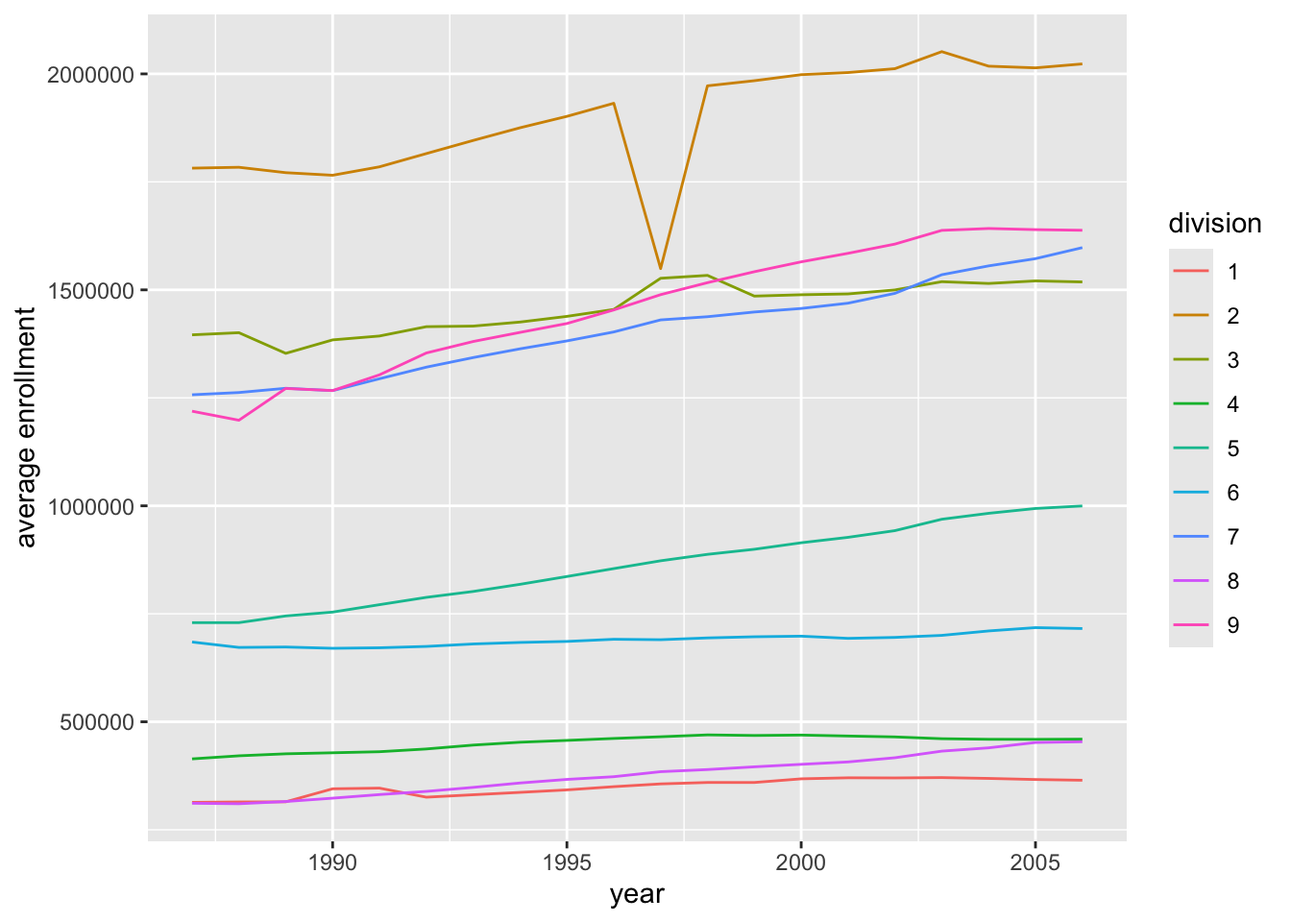
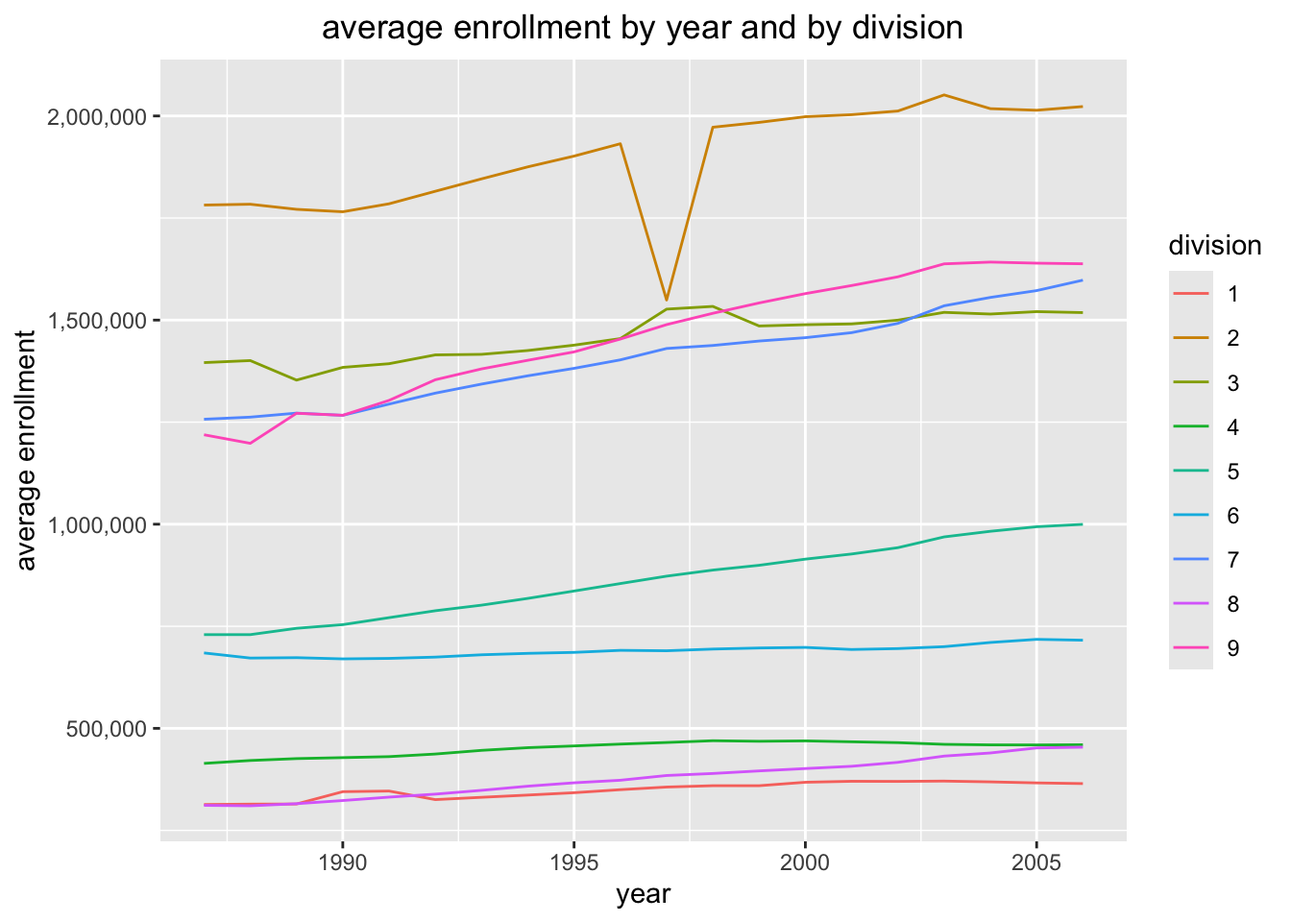
Fixes and formatting for the plots

diff --git a/docs/Project1.html b/docs/Project1.html
@@ -261,7 +261,7 @@ pre > code.sourceCode > span > a:first-child::before { text-decoration: underlin
 <span id="cb6-42"><a href="#cb6-42" aria-hidden="true" tabindex="-1"></a>  <span class="fu">return</span>(<span class="fu">list</span>(countydata, statedata))</span>
 <span id="cb6-43"><a href="#cb6-43" aria-hidden="true" tabindex="-1"></a>}</span></code><button title="Copy to Clipboard" class="code-copy-button"><i class="bi"></i></button></pre></div>
 </div>
-<p>We then create a wrapper function to automate the process, so we can now simply add a CSV file name/path, and optionally a specific value we would like if enrollment is no longer the measure of interest, to the function my_wrapper().</p>
+<p>We then create a wrapper function to automate the process, so we can now simply add a CSV file name/path, and optionally a specific value we would like if enrollment is no longer the measure of interest, to the function my_wrapper(). Checking this output data to the data above, we can see our wrapper has reproduced the same data processing steps.</p>
 <div class="cell">
 <div class="sourceCode cell-code" id="cb7"><pre class="sourceCode r code-with-copy"><code class="sourceCode r"><span id="cb7-1"><a href="#cb7-1" aria-hidden="true" tabindex="-1"></a>my_wrapper <span class="ot">&lt;-</span> <span class="cf">function</span>(url, <span class="at">value =</span> <span class="st">"enrollment"</span>){</span>
 <span id="cb7-2"><a href="#cb7-2" aria-hidden="true" tabindex="-1"></a>  <span class="co"># assume URL is in quotes</span></span>
@@ -273,15 +273,49 @@ pre > code.sourceCode > span > a:first-child::before { text-decoration: underlin
 <span id="cb7-8"><a href="#cb7-8" aria-hidden="true" tabindex="-1"></a>result_tibbles <span class="ot">&lt;-</span> <span class="fu">my_wrapper</span>(<span class="at">url=</span><span class="st">"https://www4.stat.ncsu.edu/~online/datasets/EDU01a.csv"</span>)</span>
 <span id="cb7-9"><a href="#cb7-9" aria-hidden="true" tabindex="-1"></a></span>
 <span id="cb7-10"><a href="#cb7-10" aria-hidden="true" tabindex="-1"></a>countyData_Final <span class="ot">&lt;-</span> result_tibbles[[<span class="dv">1</span>]]</span>
-<span id="cb7-11"><a href="#cb7-11" aria-hidden="true" tabindex="-1"></a>stateData_Final <span class="ot">&lt;-</span> result_tibbles[[<span class="dv">2</span>]]</span></code><button title="Copy to Clipboard" class="code-copy-button"><i class="bi"></i></button></pre></div>
+<span id="cb7-11"><a href="#cb7-11" aria-hidden="true" tabindex="-1"></a>stateData_Final <span class="ot">&lt;-</span> result_tibbles[[<span class="dv">2</span>]]</span>
+<span id="cb7-12"><a href="#cb7-12" aria-hidden="true" tabindex="-1"></a>countyData_Final</span></code><button title="Copy to Clipboard" class="code-copy-button"><i class="bi"></i></button></pre></div>
+<div class="cell-output cell-output-stdout">
+<pre><code># A tibble: 31,450 × 7
+   area_name     STCOU varcode    enrollment  year measure state
+   &lt;chr&gt;         &lt;chr&gt; &lt;chr&gt;           &lt;dbl&gt; &lt;dbl&gt; &lt;chr&gt;   &lt;chr&gt;
+ 1 Abbeville, SC 45001 EDU010187D       3941  1987 EDU0101 SC   
+ 2 Abbeville, SC 45001 EDU010188D       3934  1988 EDU0101 SC   
+ 3 Abbeville, SC 45001 EDU010189D       3880  1989 EDU0101 SC   
+ 4 Abbeville, SC 45001 EDU010190D       3834  1990 EDU0101 SC   
+ 5 Abbeville, SC 45001 EDU010191D       3806  1991 EDU0101 SC   
+ 6 Abbeville, SC 45001 EDU010192D       3780  1992 EDU0101 SC   
+ 7 Abbeville, SC 45001 EDU010193D       3804  1993 EDU0101 SC   
+ 8 Abbeville, SC 45001 EDU010194D       3750  1994 EDU0101 SC   
+ 9 Abbeville, SC 45001 EDU010195D       3780  1995 EDU0101 SC   
+10 Abbeville, SC 45001 EDU010196D       3803  1996 EDU0101 SC   
+# ℹ 31,440 more rows</code></pre>
+</div>
+<div class="sourceCode cell-code" id="cb9"><pre class="sourceCode r code-with-copy"><code class="sourceCode r"><span id="cb9-1"><a href="#cb9-1" aria-hidden="true" tabindex="-1"></a>stateData_Final</span></code><button title="Copy to Clipboard" class="code-copy-button"><i class="bi"></i></button></pre></div>
+<div class="cell-output cell-output-stdout">
+<pre><code># A tibble: 520 × 7
+   area_name STCOU varcode    enrollment  year measure division
+   &lt;chr&gt;     &lt;chr&gt; &lt;chr&gt;           &lt;dbl&gt; &lt;dbl&gt; &lt;chr&gt;   &lt;chr&gt;   
+ 1 ALABAMA   01000 EDU010187D     733735  1987 EDU0101 6       
+ 2 ALABAMA   01000 EDU010188D     728234  1988 EDU0101 6       
+ 3 ALABAMA   01000 EDU010189D     730048  1989 EDU0101 6       
+ 4 ALABAMA   01000 EDU010190D     728252  1990 EDU0101 6       
+ 5 ALABAMA   01000 EDU010191D     725541  1991 EDU0101 6       
+ 6 ALABAMA   01000 EDU010192D     726150  1992 EDU0101 6       
+ 7 ALABAMA   01000 EDU010193D     728014  1993 EDU0101 6       
+ 8 ALABAMA   01000 EDU010194D     730509  1994 EDU0101 6       
+ 9 ALABAMA   01000 EDU010195D     727989  1995 EDU0101 6       
+10 ALABAMA   01000 EDU010196D     736825  1996 EDU0101 6       
+# ℹ 510 more rows</code></pre>
+</div>
 </div>
 <p>We additionally create a function to combine the processing results from multiple CSV files into one larger tibble.</p>
 <div class="cell">
-<div class="sourceCode cell-code" id="cb8"><pre class="sourceCode r code-with-copy"><code class="sourceCode r"><span id="cb8-1"><a href="#cb8-1" aria-hidden="true" tabindex="-1"></a>combine_datasets <span class="ot">&lt;-</span> <span class="cf">function</span>(results1, results2){</span>
-<span id="cb8-2"><a href="#cb8-2" aria-hidden="true" tabindex="-1"></a>  combined_county <span class="ot">&lt;-</span> dplyr<span class="sc">::</span><span class="fu">bind_rows</span>(results1[[<span class="dv">1</span>]],results2[[<span class="dv">1</span>]])</span>
-<span id="cb8-3"><a href="#cb8-3" aria-hidden="true" tabindex="-1"></a>  combined_state <span class="ot">&lt;-</span> dplyr<span class="sc">::</span><span class="fu">bind_rows</span>(results1[[<span class="dv">2</span>]],results2[[<span class="dv">2</span>]])</span>
-<span id="cb8-4"><a href="#cb8-4" aria-hidden="true" tabindex="-1"></a>  <span class="fu">return</span>(<span class="fu">list</span>(<span class="at">countyData =</span> combined_county, <span class="at">stateData =</span> combined_state))</span>
-<span id="cb8-5"><a href="#cb8-5" aria-hidden="true" tabindex="-1"></a>}</span></code><button title="Copy to Clipboard" class="code-copy-button"><i class="bi"></i></button></pre></div>
+<div class="sourceCode cell-code" id="cb11"><pre class="sourceCode r code-with-copy"><code class="sourceCode r"><span id="cb11-1"><a href="#cb11-1" aria-hidden="true" tabindex="-1"></a>combine_datasets <span class="ot">&lt;-</span> <span class="cf">function</span>(results1, results2){</span>
+<span id="cb11-2"><a href="#cb11-2" aria-hidden="true" tabindex="-1"></a>  combined_county <span class="ot">&lt;-</span> dplyr<span class="sc">::</span><span class="fu">bind_rows</span>(results1[[<span class="dv">1</span>]],results2[[<span class="dv">1</span>]])</span>
+<span id="cb11-3"><a href="#cb11-3" aria-hidden="true" tabindex="-1"></a>  combined_state <span class="ot">&lt;-</span> dplyr<span class="sc">::</span><span class="fu">bind_rows</span>(results1[[<span class="dv">2</span>]],results2[[<span class="dv">2</span>]])</span>
+<span id="cb11-4"><a href="#cb11-4" aria-hidden="true" tabindex="-1"></a>  <span class="fu">return</span>(<span class="fu">list</span>(<span class="at">countyData =</span> combined_county, <span class="at">stateData =</span> combined_state))</span>
+<span id="cb11-5"><a href="#cb11-5" aria-hidden="true" tabindex="-1"></a>}</span></code><button title="Copy to Clipboard" class="code-copy-button"><i class="bi"></i></button></pre></div>
 </div>
 </section>
 </section>
@@ -289,40 +323,38 @@ pre > code.sourceCode > span > a:first-child::before { text-decoration: underlin
 <h2 class="anchored" data-anchor-id="data-summarization">Data Summarization</h2>
 <p>We then turn our attention to a method for automatically summarizing the datasets created from our previous functions, specifically plotting the state-level data as a line chart for average enrollment by year, with different lines for each division, and the county-level data as a line chart for simple enrollment by year across counties, specifying a particular state and considering either the top n number of counties or the bottom n number of counties, where ordering is according to average enrollment across the entire time period.</p>
 <div class="cell">
-<div class="sourceCode cell-code" id="cb9"><pre class="sourceCode r code-with-copy"><code class="sourceCode r"><span id="cb9-1"><a href="#cb9-1" aria-hidden="true" tabindex="-1"></a>plot.state <span class="ot">&lt;-</span> <span class="cf">function</span>(df,<span class="at">var_name=</span><span class="st">"enrollment"</span>){</span>
-<span id="cb9-2"><a href="#cb9-2" aria-hidden="true" tabindex="-1"></a>  mean_data <span class="ot">&lt;-</span> df <span class="sc">|&gt;</span></span>
-<span id="cb9-3"><a href="#cb9-3" aria-hidden="true" tabindex="-1"></a>    <span class="fu">filter</span>(division <span class="sc">!=</span> <span class="st">"ERROR"</span>) <span class="sc">|&gt;</span></span>
-<span id="cb9-4"><a href="#cb9-4" aria-hidden="true" tabindex="-1"></a>    <span class="fu">group_by</span>(division,year) <span class="sc">|&gt;</span></span>
-<span id="cb9-5"><a href="#cb9-5" aria-hidden="true" tabindex="-1"></a>    <span class="fu">summarize</span>(<span class="at">var_avg =</span> <span class="fu">mean</span>(<span class="fu">get</span>(var_name)))</span>
-<span id="cb9-6"><a href="#cb9-6" aria-hidden="true" tabindex="-1"></a>  g <span class="ot">&lt;-</span> <span class="fu">ggplot</span>(mean_data,<span class="fu">aes</span>(<span class="at">x=</span>year,<span class="at">y=</span>var_avg,<span class="at">color=</span>division))</span>
-<span id="cb9-7"><a href="#cb9-7" aria-hidden="true" tabindex="-1"></a>  g<span class="sc">+</span><span class="fu">geom_line</span>()<span class="sc">+</span><span class="fu">labs</span>(<span class="at">y=</span><span class="fu">paste</span>(<span class="st">"average"</span>,var_name))</span>
-<span id="cb9-8"><a href="#cb9-8" aria-hidden="true" tabindex="-1"></a>}</span>
-<span id="cb9-9"><a href="#cb9-9" aria-hidden="true" tabindex="-1"></a></span>
-<span id="cb9-10"><a href="#cb9-10" aria-hidden="true" tabindex="-1"></a>plot.county <span class="ot">&lt;-</span> <span class="cf">function</span>(df,<span class="at">state_choice=</span><span class="st">"NC"</span>,<span class="at">top_bottom=</span><span class="st">"top"</span>,<span class="at">n_given=</span><span class="dv">5</span>,<span class="at">var_name=</span><span class="st">"enrollment"</span>){</span>
-<span id="cb9-11"><a href="#cb9-11" aria-hidden="true" tabindex="-1"></a>  mean_data <span class="ot">&lt;-</span> df <span class="sc">|&gt;</span></span>
-<span id="cb9-12"><a href="#cb9-12" aria-hidden="true" tabindex="-1"></a>    <span class="fu">filter</span>(state <span class="sc">==</span> state_choice) <span class="sc">|&gt;</span></span>
-<span id="cb9-13"><a href="#cb9-13" aria-hidden="true" tabindex="-1"></a>    <span class="fu">group_by</span>(area_name) <span class="sc">|&gt;</span></span>
-<span id="cb9-14"><a href="#cb9-14" aria-hidden="true" tabindex="-1"></a>    <span class="fu">summarize</span>(<span class="at">var_avg =</span> <span class="fu">mean</span>(<span class="fu">get</span>(var_name))) </span>
-<span id="cb9-15"><a href="#cb9-15" aria-hidden="true" tabindex="-1"></a>    <span class="fu">ifelse</span>(<span class="fu">tolower</span>(top_bottom)<span class="sc">==</span><span class="st">"top"</span>, mean_data <span class="ot">&lt;-</span> mean_data <span class="sc">|&gt;</span> <span class="fu">arrange</span>(<span class="fu">desc</span>(var_avg)),</span>
-<span id="cb9-16"><a href="#cb9-16" aria-hidden="true" tabindex="-1"></a>           <span class="fu">ifelse</span>(<span class="fu">tolower</span>(top_bottom)<span class="sc">==</span><span class="st">"bottom"</span>,</span>
-<span id="cb9-17"><a href="#cb9-17" aria-hidden="true" tabindex="-1"></a>              mean_data <span class="ot">&lt;-</span> mean_data <span class="sc">|&gt;</span></span>
-<span id="cb9-18"><a href="#cb9-18" aria-hidden="true" tabindex="-1"></a>              <span class="fu">arrange</span>(var_avg),</span>
-<span id="cb9-19"><a href="#cb9-19" aria-hidden="true" tabindex="-1"></a>            <span class="fu">return</span>(<span class="st">"ERROR, please specify 'top' or 'bottom'"</span>)))</span>
-<span id="cb9-20"><a href="#cb9-20" aria-hidden="true" tabindex="-1"></a>    </span>
-<span id="cb9-21"><a href="#cb9-21" aria-hidden="true" tabindex="-1"></a>  mean_data <span class="ot">&lt;-</span> mean_data <span class="sc">|&gt;</span> <span class="fu">slice</span>(<span class="dv">1</span><span class="sc">:</span>n_given)</span>
-<span id="cb9-22"><a href="#cb9-22" aria-hidden="true" tabindex="-1"></a>  plot_data <span class="ot">&lt;-</span> <span class="fu">left_join</span>(mean_data,df, <span class="at">by =</span> <span class="st">"area_name"</span>)</span>
-<span id="cb9-23"><a href="#cb9-23" aria-hidden="true" tabindex="-1"></a>  <span class="do">###Prompt seemed a little unclear, but I think for the county data we are supposed to be plotting the actual data values for enrollment per year, with different lines for the top/bottom n specified counties? That should be completed here. - TB</span></span>
-<span id="cb9-24"><a href="#cb9-24" aria-hidden="true" tabindex="-1"></a>  g <span class="ot">&lt;-</span> <span class="fu">ggplot</span>(plot_data,<span class="fu">aes</span>(<span class="at">x=</span>year,<span class="at">y=</span><span class="fu">get</span>(var_name),<span class="at">color=</span>area_name))</span>
-<span id="cb9-25"><a href="#cb9-25" aria-hidden="true" tabindex="-1"></a>  g<span class="sc">+</span><span class="fu">geom_line</span>()<span class="sc">+</span><span class="fu">labs</span>(<span class="at">y=</span>var_name)</span>
-<span id="cb9-26"><a href="#cb9-26" aria-hidden="true" tabindex="-1"></a>}</span></code><button title="Copy to Clipboard" class="code-copy-button"><i class="bi"></i></button></pre></div>
+<div class="sourceCode cell-code" id="cb12"><pre class="sourceCode r code-with-copy"><code class="sourceCode r"><span id="cb12-1"><a href="#cb12-1" aria-hidden="true" tabindex="-1"></a>plot.state <span class="ot">&lt;-</span> <span class="cf">function</span>(df,<span class="at">var_name=</span><span class="st">"enrollment"</span>){</span>
+<span id="cb12-2"><a href="#cb12-2" aria-hidden="true" tabindex="-1"></a>  mean_data <span class="ot">&lt;-</span> df <span class="sc">|&gt;</span></span>
+<span id="cb12-3"><a href="#cb12-3" aria-hidden="true" tabindex="-1"></a>    <span class="fu">filter</span>(division <span class="sc">!=</span> <span class="st">"ERROR"</span>) <span class="sc">|&gt;</span></span>
+<span id="cb12-4"><a href="#cb12-4" aria-hidden="true" tabindex="-1"></a>    <span class="fu">group_by</span>(division,year) <span class="sc">|&gt;</span></span>
+<span id="cb12-5"><a href="#cb12-5" aria-hidden="true" tabindex="-1"></a>    <span class="fu">summarize</span>(<span class="at">var_avg =</span> <span class="fu">mean</span>(<span class="fu">get</span>(var_name)))</span>
+<span id="cb12-6"><a href="#cb12-6" aria-hidden="true" tabindex="-1"></a>  g <span class="ot">&lt;-</span> <span class="fu">ggplot</span>(mean_data,<span class="fu">aes</span>(<span class="at">x=</span>year,<span class="at">y=</span>var_avg,<span class="at">color=</span>division))</span>
+<span id="cb12-7"><a href="#cb12-7" aria-hidden="true" tabindex="-1"></a>  g<span class="sc">+</span><span class="fu">geom_line</span>()<span class="sc">+</span><span class="fu">labs</span>(<span class="at">y=</span><span class="fu">paste</span>(<span class="st">"average"</span>,var_name),<span class="at">title=</span><span class="fu">paste</span>(<span class="st">"average"</span>,var_name,<span class="st">"by year and by division"</span>))<span class="sc">+</span><span class="fu">theme</span>(<span class="at">plot.title =</span> <span class="fu">element_text</span>(<span class="at">hjust=</span><span class="fl">0.5</span>))<span class="sc">+</span><span class="fu">scale_y_continuous</span>(<span class="at">labels=</span>comma)</span>
+<span id="cb12-8"><a href="#cb12-8" aria-hidden="true" tabindex="-1"></a>}</span>
+<span id="cb12-9"><a href="#cb12-9" aria-hidden="true" tabindex="-1"></a></span>
+<span id="cb12-10"><a href="#cb12-10" aria-hidden="true" tabindex="-1"></a>plot.county <span class="ot">&lt;-</span> <span class="cf">function</span>(df,<span class="at">state_choice=</span><span class="st">"NC"</span>,<span class="at">top_bottom=</span><span class="st">"top"</span>,<span class="at">n_given=</span><span class="dv">5</span>,<span class="at">var_name=</span><span class="st">"enrollment"</span>){</span>
+<span id="cb12-11"><a href="#cb12-11" aria-hidden="true" tabindex="-1"></a>  mean_data <span class="ot">&lt;-</span> df <span class="sc">|&gt;</span></span>
+<span id="cb12-12"><a href="#cb12-12" aria-hidden="true" tabindex="-1"></a>    <span class="fu">filter</span>(state <span class="sc">==</span> state_choice) <span class="sc">|&gt;</span></span>
+<span id="cb12-13"><a href="#cb12-13" aria-hidden="true" tabindex="-1"></a>    <span class="fu">group_by</span>(area_name) <span class="sc">|&gt;</span></span>
+<span id="cb12-14"><a href="#cb12-14" aria-hidden="true" tabindex="-1"></a>    <span class="fu">summarize</span>(<span class="at">var_avg =</span> <span class="fu">mean</span>(<span class="fu">get</span>(var_name))) </span>
+<span id="cb12-15"><a href="#cb12-15" aria-hidden="true" tabindex="-1"></a>    <span class="fu">ifelse</span>(<span class="fu">tolower</span>(top_bottom)<span class="sc">==</span><span class="st">"top"</span>, mean_data <span class="ot">&lt;-</span> mean_data <span class="sc">|&gt;</span> <span class="fu">arrange</span>(<span class="fu">desc</span>(var_avg)),</span>
+<span id="cb12-16"><a href="#cb12-16" aria-hidden="true" tabindex="-1"></a>           <span class="fu">ifelse</span>(<span class="fu">tolower</span>(top_bottom)<span class="sc">==</span><span class="st">"bottom"</span>,</span>
+<span id="cb12-17"><a href="#cb12-17" aria-hidden="true" tabindex="-1"></a>              mean_data <span class="ot">&lt;-</span> mean_data <span class="sc">|&gt;</span></span>
+<span id="cb12-18"><a href="#cb12-18" aria-hidden="true" tabindex="-1"></a>              <span class="fu">arrange</span>(var_avg),</span>
+<span id="cb12-19"><a href="#cb12-19" aria-hidden="true" tabindex="-1"></a>            <span class="fu">return</span>(<span class="st">"ERROR, please specify 'top' or 'bottom'"</span>)))</span>
+<span id="cb12-20"><a href="#cb12-20" aria-hidden="true" tabindex="-1"></a>  mean_data <span class="ot">&lt;-</span> mean_data <span class="sc">|&gt;</span> <span class="fu">slice</span>(<span class="dv">1</span><span class="sc">:</span>n_given)</span>
+<span id="cb12-21"><a href="#cb12-21" aria-hidden="true" tabindex="-1"></a>  plot_data <span class="ot">&lt;-</span> <span class="fu">left_join</span>(mean_data,df, <span class="at">by =</span> <span class="st">"area_name"</span>)</span>
+<span id="cb12-22"><a href="#cb12-22" aria-hidden="true" tabindex="-1"></a>  g <span class="ot">&lt;-</span> <span class="fu">ggplot</span>(plot_data,<span class="fu">aes</span>(<span class="at">x=</span>year,<span class="at">y=</span><span class="fu">get</span>(var_name),<span class="at">color=</span><span class="fu">fct_inorder</span>(area_name)))</span>
+<span id="cb12-23"><a href="#cb12-23" aria-hidden="true" tabindex="-1"></a>  g<span class="sc">+</span><span class="fu">geom_line</span>()<span class="sc">+</span><span class="fu">labs</span>(<span class="at">y=</span>var_name,<span class="at">color=</span><span class="st">"area_name"</span>,<span class="at">title=</span><span class="fu">paste</span>(var_name,<span class="st">"for the"</span>,top_bottom,n_given,<span class="st">"counties in"</span>,state_choice))<span class="sc">+</span><span class="fu">theme</span>(<span class="at">plot.title =</span> <span class="fu">element_text</span>(<span class="at">hjust=</span><span class="fl">0.5</span>),<span class="at">legend.key.height=</span><span class="fu">unit</span>((<span class="dv">5</span><span class="sc">/</span>n_given),<span class="st">'cm'</span>))<span class="sc">+</span><span class="fu">scale_y_continuous</span>(<span class="at">labels=</span>comma)</span>
+<span id="cb12-24"><a href="#cb12-24" aria-hidden="true" tabindex="-1"></a>}</span></code><button title="Copy to Clipboard" class="code-copy-button"><i class="bi"></i></button></pre></div>
 </div>
 </section>
 <section id="put-it-together" class="level2">
 <h2 class="anchored" data-anchor-id="put-it-together">Put it Together</h2>
 <p>Now that we have developed all of our functions, we can make sure they work correctly and run them in the same location. First, we run the functions to process and create a final combined dataset out for the EDU01a and EDU01b CSV files.</p>
 <div class="cell">
-<div class="sourceCode cell-code" id="cb10"><pre class="sourceCode r code-with-copy"><code class="sourceCode r"><span id="cb10-1"><a href="#cb10-1" aria-hidden="true" tabindex="-1"></a>finalCombo <span class="ot">&lt;-</span> <span class="fu">combine_datasets</span>(<span class="at">results1 =</span> <span class="fu">my_wrapper</span>(<span class="st">"https://www4.stat.ncsu.edu/~online/datasets/EDU01a.csv"</span>), <span class="at">results2 =</span> <span class="fu">my_wrapper</span>(<span class="st">"https://www4.stat.ncsu.edu/~online/datasets/EDU01b.csv"</span>))</span>
-<span id="cb10-2"><a href="#cb10-2" aria-hidden="true" tabindex="-1"></a>finalCombo</span></code><button title="Copy to Clipboard" class="code-copy-button"><i class="bi"></i></button></pre></div>
+<div class="sourceCode cell-code" id="cb13"><pre class="sourceCode r code-with-copy"><code class="sourceCode r"><span id="cb13-1"><a href="#cb13-1" aria-hidden="true" tabindex="-1"></a>finalCombo <span class="ot">&lt;-</span> <span class="fu">combine_datasets</span>(<span class="at">results1 =</span> <span class="fu">my_wrapper</span>(<span class="st">"https://www4.stat.ncsu.edu/~online/datasets/EDU01a.csv"</span>), <span class="at">results2 =</span> <span class="fu">my_wrapper</span>(<span class="st">"https://www4.stat.ncsu.edu/~online/datasets/EDU01b.csv"</span>))</span>
+<span id="cb13-2"><a href="#cb13-2" aria-hidden="true" tabindex="-1"></a>finalCombo</span></code><button title="Copy to Clipboard" class="code-copy-button"><i class="bi"></i></button></pre></div>
 <div class="cell-output cell-output-stdout">
 <pre><code>$countyData
 # A tibble: 62,900 × 7
@@ -359,7 +391,7 @@ $stateData
 </div>
 <p>Next we create our desired visualizations, plotting the state-level data, and including a few separate plots for the county-level data: one for the top 20 counties in NC, one for the bottom counties in SC, one using only defaults, and one with the top 8 counties in PA.</p>
 <div class="cell">
-<div class="sourceCode cell-code" id="cb12"><pre class="sourceCode r code-with-copy"><code class="sourceCode r"><span id="cb12-1"><a href="#cb12-1" aria-hidden="true" tabindex="-1"></a><span class="fu">plot</span>(finalCombo[[<span class="dv">2</span>]])</span></code><button title="Copy to Clipboard" class="code-copy-button"><i class="bi"></i></button></pre></div>
+<div class="sourceCode cell-code" id="cb15"><pre class="sourceCode r code-with-copy"><code class="sourceCode r"><span id="cb15-1"><a href="#cb15-1" aria-hidden="true" tabindex="-1"></a><span class="fu">plot</span>(finalCombo[[<span class="dv">2</span>]])</span></code><button title="Copy to Clipboard" class="code-copy-button"><i class="bi"></i></button></pre></div>
 <div class="cell-output-display">
 <div>
 <figure class="figure">
@@ -367,7 +399,7 @@ $stateData
 </figure>
 </div>
 </div>
-<div class="sourceCode cell-code" id="cb13"><pre class="sourceCode r code-with-copy"><code class="sourceCode r"><span id="cb13-1"><a href="#cb13-1" aria-hidden="true" tabindex="-1"></a><span class="fu">plot</span>(finalCombo[[<span class="dv">1</span>]],<span class="at">state_choice=</span><span class="st">"NC"</span>,<span class="at">top_bottom=</span><span class="st">"top"</span>,<span class="at">n_given=</span><span class="dv">20</span>)</span></code><button title="Copy to Clipboard" class="code-copy-button"><i class="bi"></i></button></pre></div>
+<div class="sourceCode cell-code" id="cb16"><pre class="sourceCode r code-with-copy"><code class="sourceCode r"><span id="cb16-1"><a href="#cb16-1" aria-hidden="true" tabindex="-1"></a><span class="fu">plot</span>(finalCombo[[<span class="dv">1</span>]],<span class="at">state_choice=</span><span class="st">"NC"</span>,<span class="at">top_bottom=</span><span class="st">"top"</span>,<span class="at">n_given=</span><span class="dv">20</span>)</span></code><button title="Copy to Clipboard" class="code-copy-button"><i class="bi"></i></button></pre></div>
 <div class="cell-output-display">
 <div>
 <figure class="figure">
@@ -375,7 +407,7 @@ $stateData
 </figure>
 </div>
 </div>
-<div class="sourceCode cell-code" id="cb14"><pre class="sourceCode r code-with-copy"><code class="sourceCode r"><span id="cb14-1"><a href="#cb14-1" aria-hidden="true" tabindex="-1"></a><span class="fu">plot</span>(finalCombo[[<span class="dv">1</span>]],<span class="at">state_choice=</span><span class="st">"SC"</span>,<span class="at">top_bottom=</span><span class="st">"bottom"</span>,<span class="at">n_given=</span><span class="dv">7</span>)</span></code><button title="Copy to Clipboard" class="code-copy-button"><i class="bi"></i></button></pre></div>
+<div class="sourceCode cell-code" id="cb17"><pre class="sourceCode r code-with-copy"><code class="sourceCode r"><span id="cb17-1"><a href="#cb17-1" aria-hidden="true" tabindex="-1"></a><span class="fu">plot</span>(finalCombo[[<span class="dv">1</span>]],<span class="at">state_choice=</span><span class="st">"SC"</span>,<span class="at">top_bottom=</span><span class="st">"bottom"</span>,<span class="at">n_given=</span><span class="dv">7</span>)</span></code><button title="Copy to Clipboard" class="code-copy-button"><i class="bi"></i></button></pre></div>
 <div class="cell-output-display">
 <div>
 <figure class="figure">
@@ -383,7 +415,7 @@ $stateData
 </figure>
 </div>
 </div>
-<div class="sourceCode cell-code" id="cb15"><pre class="sourceCode r code-with-copy"><code class="sourceCode r"><span id="cb15-1"><a href="#cb15-1" aria-hidden="true" tabindex="-1"></a><span class="fu">plot</span>(finalCombo[[<span class="dv">1</span>]])</span></code><button title="Copy to Clipboard" class="code-copy-button"><i class="bi"></i></button></pre></div>
+<div class="sourceCode cell-code" id="cb18"><pre class="sourceCode r code-with-copy"><code class="sourceCode r"><span id="cb18-1"><a href="#cb18-1" aria-hidden="true" tabindex="-1"></a><span class="fu">plot</span>(finalCombo[[<span class="dv">1</span>]])</span></code><button title="Copy to Clipboard" class="code-copy-button"><i class="bi"></i></button></pre></div>
 <div class="cell-output-display">
 <div>
 <figure class="figure">
@@ -391,7 +423,7 @@ $stateData
 </figure>
 </div>
 </div>
-<div class="sourceCode cell-code" id="cb16"><pre class="sourceCode r code-with-copy"><code class="sourceCode r"><span id="cb16-1"><a href="#cb16-1" aria-hidden="true" tabindex="-1"></a><span class="fu">plot</span>(finalCombo[[<span class="dv">1</span>]],<span class="at">state_choice=</span><span class="st">"PA"</span>,<span class="at">top_bottom=</span><span class="st">"top"</span>,<span class="at">n_given=</span><span class="dv">8</span>)</span></code><button title="Copy to Clipboard" class="code-copy-button"><i class="bi"></i></button></pre></div>
+<div class="sourceCode cell-code" id="cb19"><pre class="sourceCode r code-with-copy"><code class="sourceCode r"><span id="cb19-1"><a href="#cb19-1" aria-hidden="true" tabindex="-1"></a><span class="fu">plot</span>(finalCombo[[<span class="dv">1</span>]],<span class="at">state_choice=</span><span class="st">"PA"</span>,<span class="at">top_bottom=</span><span class="st">"top"</span>,<span class="at">n_given=</span><span class="dv">8</span>)</span></code><button title="Copy to Clipboard" class="code-copy-button"><i class="bi"></i></button></pre></div>
 <div class="cell-output-display">
 <div>
 <figure class="figure">
@@ -402,18 +434,18 @@ $stateData
 </div>
 <p>Lastly, we repeat this process for four additional datasets, processsing each, combining them together, plotting the state data, plotting the top 15 counties in CA, the top 4 counties in TX, plotting county data only using defaults, and plotting the top 10 counties in NY.</p>
 <div class="cell">
-<div class="sourceCode cell-code" id="cb17"><pre class="sourceCode r code-with-copy"><code class="sourceCode r"><span id="cb17-1"><a href="#cb17-1" aria-hidden="true" tabindex="-1"></a>first_new_URL <span class="ot">&lt;-</span> <span class="fu">my_wrapper</span>(<span class="at">url=</span><span class="st">"https://www4.stat.ncsu.edu/~online/datasets/PST01a.csv"</span>)</span>
-<span id="cb17-2"><a href="#cb17-2" aria-hidden="true" tabindex="-1"></a>second_new_URL <span class="ot">&lt;-</span> <span class="fu">my_wrapper</span>(<span class="at">url=</span><span class="st">"https://www4.stat.ncsu.edu/~online/datasets/PST01b.csv"</span>)</span>
-<span id="cb17-3"><a href="#cb17-3" aria-hidden="true" tabindex="-1"></a>third_new_URL <span class="ot">&lt;-</span> <span class="fu">my_wrapper</span>(<span class="at">url=</span><span class="st">"https://www4.stat.ncsu.edu/~online/datasets/PST01c.csv"</span>)</span>
-<span id="cb17-4"><a href="#cb17-4" aria-hidden="true" tabindex="-1"></a>fourth_new_URL <span class="ot">&lt;-</span> <span class="fu">my_wrapper</span>(<span class="at">url=</span><span class="st">"https://www4.stat.ncsu.edu/~online/datasets/PST01d.csv"</span>)</span>
-<span id="cb17-5"><a href="#cb17-5" aria-hidden="true" tabindex="-1"></a></span>
-<span id="cb17-6"><a href="#cb17-6" aria-hidden="true" tabindex="-1"></a></span>
-<span id="cb17-7"><a href="#cb17-7" aria-hidden="true" tabindex="-1"></a>combine1 <span class="ot">&lt;-</span> <span class="fu">combine_datasets</span>(<span class="at">results1 =</span> first_new_URL, <span class="at">results2 =</span> second_new_URL)</span>
-<span id="cb17-8"><a href="#cb17-8" aria-hidden="true" tabindex="-1"></a></span>
-<span id="cb17-9"><a href="#cb17-9" aria-hidden="true" tabindex="-1"></a>combine2 <span class="ot">&lt;-</span> <span class="fu">combine_datasets</span>(<span class="at">results1 =</span> combine1, <span class="at">results2 =</span> third_new_URL)</span>
-<span id="cb17-10"><a href="#cb17-10" aria-hidden="true" tabindex="-1"></a></span>
-<span id="cb17-11"><a href="#cb17-11" aria-hidden="true" tabindex="-1"></a>combine3 <span class="ot">&lt;-</span> <span class="fu">combine_datasets</span>(<span class="at">results1 =</span> combine2, <span class="at">results2 =</span> fourth_new_URL)</span>
-<span id="cb17-12"><a href="#cb17-12" aria-hidden="true" tabindex="-1"></a>combine3</span></code><button title="Copy to Clipboard" class="code-copy-button"><i class="bi"></i></button></pre></div>
+<div class="sourceCode cell-code" id="cb20"><pre class="sourceCode r code-with-copy"><code class="sourceCode r"><span id="cb20-1"><a href="#cb20-1" aria-hidden="true" tabindex="-1"></a>first_new_URL <span class="ot">&lt;-</span> <span class="fu">my_wrapper</span>(<span class="at">url=</span><span class="st">"https://www4.stat.ncsu.edu/~online/datasets/PST01a.csv"</span>)</span>
+<span id="cb20-2"><a href="#cb20-2" aria-hidden="true" tabindex="-1"></a>second_new_URL <span class="ot">&lt;-</span> <span class="fu">my_wrapper</span>(<span class="at">url=</span><span class="st">"https://www4.stat.ncsu.edu/~online/datasets/PST01b.csv"</span>)</span>
+<span id="cb20-3"><a href="#cb20-3" aria-hidden="true" tabindex="-1"></a>third_new_URL <span class="ot">&lt;-</span> <span class="fu">my_wrapper</span>(<span class="at">url=</span><span class="st">"https://www4.stat.ncsu.edu/~online/datasets/PST01c.csv"</span>)</span>
+<span id="cb20-4"><a href="#cb20-4" aria-hidden="true" tabindex="-1"></a>fourth_new_URL <span class="ot">&lt;-</span> <span class="fu">my_wrapper</span>(<span class="at">url=</span><span class="st">"https://www4.stat.ncsu.edu/~online/datasets/PST01d.csv"</span>)</span>
+<span id="cb20-5"><a href="#cb20-5" aria-hidden="true" tabindex="-1"></a></span>
+<span id="cb20-6"><a href="#cb20-6" aria-hidden="true" tabindex="-1"></a></span>
+<span id="cb20-7"><a href="#cb20-7" aria-hidden="true" tabindex="-1"></a>combine1 <span class="ot">&lt;-</span> <span class="fu">combine_datasets</span>(<span class="at">results1 =</span> first_new_URL, <span class="at">results2 =</span> second_new_URL)</span>
+<span id="cb20-8"><a href="#cb20-8" aria-hidden="true" tabindex="-1"></a></span>
+<span id="cb20-9"><a href="#cb20-9" aria-hidden="true" tabindex="-1"></a>combine2 <span class="ot">&lt;-</span> <span class="fu">combine_datasets</span>(<span class="at">results1 =</span> combine1, <span class="at">results2 =</span> third_new_URL)</span>
+<span id="cb20-10"><a href="#cb20-10" aria-hidden="true" tabindex="-1"></a></span>
+<span id="cb20-11"><a href="#cb20-11" aria-hidden="true" tabindex="-1"></a>combine3 <span class="ot">&lt;-</span> <span class="fu">combine_datasets</span>(<span class="at">results1 =</span> combine2, <span class="at">results2 =</span> fourth_new_URL)</span>
+<span id="cb20-12"><a href="#cb20-12" aria-hidden="true" tabindex="-1"></a>combine3</span></code><button title="Copy to Clipboard" class="code-copy-button"><i class="bi"></i></button></pre></div>
 <div class="cell-output cell-output-stdout">
 <pre><code>$countyData
 # A tibble: 125,800 × 7
@@ -447,7 +479,7 @@ $stateData
 10 ALABAMA   01000 PST025181D    3918526  1981 PST0251 6       
 # ℹ 2,070 more rows</code></pre>
 </div>
-<div class="sourceCode cell-code" id="cb19"><pre class="sourceCode r code-with-copy"><code class="sourceCode r"><span id="cb19-1"><a href="#cb19-1" aria-hidden="true" tabindex="-1"></a><span class="fu">plot</span>(combine3[[<span class="dv">2</span>]])</span></code><button title="Copy to Clipboard" class="code-copy-button"><i class="bi"></i></button></pre></div>
+<div class="sourceCode cell-code" id="cb22"><pre class="sourceCode r code-with-copy"><code class="sourceCode r"><span id="cb22-1"><a href="#cb22-1" aria-hidden="true" tabindex="-1"></a><span class="fu">plot</span>(combine3[[<span class="dv">2</span>]])</span></code><button title="Copy to Clipboard" class="code-copy-button"><i class="bi"></i></button></pre></div>
 <div class="cell-output-display">
 <div>
 <figure class="figure">
@@ -455,7 +487,7 @@ $stateData
 </figure>
 </div>
 </div>
-<div class="sourceCode cell-code" id="cb20"><pre class="sourceCode r code-with-copy"><code class="sourceCode r"><span id="cb20-1"><a href="#cb20-1" aria-hidden="true" tabindex="-1"></a><span class="fu">plot</span>(combine3[[<span class="dv">1</span>]], <span class="st">"CA"</span>, <span class="st">"top"</span>, <span class="dv">15</span>)</span></code><button title="Copy to Clipboard" class="code-copy-button"><i class="bi"></i></button></pre></div>
+<div class="sourceCode cell-code" id="cb23"><pre class="sourceCode r code-with-copy"><code class="sourceCode r"><span id="cb23-1"><a href="#cb23-1" aria-hidden="true" tabindex="-1"></a><span class="fu">plot</span>(combine3[[<span class="dv">1</span>]], <span class="st">"CA"</span>, <span class="st">"top"</span>, <span class="dv">15</span>)</span></code><button title="Copy to Clipboard" class="code-copy-button"><i class="bi"></i></button></pre></div>
 <div class="cell-output-display">
 <div>
 <figure class="figure">
@@ -463,7 +495,7 @@ $stateData
 </figure>
 </div>
 </div>
-<div class="sourceCode cell-code" id="cb21"><pre class="sourceCode r code-with-copy"><code class="sourceCode r"><span id="cb21-1"><a href="#cb21-1" aria-hidden="true" tabindex="-1"></a><span class="fu">plot</span>(combine3[[<span class="dv">1</span>]], <span class="st">"TX"</span>, <span class="st">"top"</span>, <span class="dv">4</span>)</span></code><button title="Copy to Clipboard" class="code-copy-button"><i class="bi"></i></button></pre></div>
+<div class="sourceCode cell-code" id="cb24"><pre class="sourceCode r code-with-copy"><code class="sourceCode r"><span id="cb24-1"><a href="#cb24-1" aria-hidden="true" tabindex="-1"></a><span class="fu">plot</span>(combine3[[<span class="dv">1</span>]], <span class="st">"TX"</span>, <span class="st">"top"</span>, <span class="dv">4</span>)</span></code><button title="Copy to Clipboard" class="code-copy-button"><i class="bi"></i></button></pre></div>
 <div class="cell-output-display">
 <div>
 <figure class="figure">
@@ -471,7 +503,7 @@ $stateData
 </figure>
 </div>
 </div>
-<div class="sourceCode cell-code" id="cb22"><pre class="sourceCode r code-with-copy"><code class="sourceCode r"><span id="cb22-1"><a href="#cb22-1" aria-hidden="true" tabindex="-1"></a><span class="fu">plot</span>(combine3[[<span class="dv">1</span>]])</span></code><button title="Copy to Clipboard" class="code-copy-button"><i class="bi"></i></button></pre></div>
+<div class="sourceCode cell-code" id="cb25"><pre class="sourceCode r code-with-copy"><code class="sourceCode r"><span id="cb25-1"><a href="#cb25-1" aria-hidden="true" tabindex="-1"></a><span class="fu">plot</span>(combine3[[<span class="dv">1</span>]])</span></code><button title="Copy to Clipboard" class="code-copy-button"><i class="bi"></i></button></pre></div>
 <div class="cell-output-display">
 <div>
 <figure class="figure">
@@ -479,7 +511,7 @@ $stateData
 </figure>
 </div>
 </div>
-<div class="sourceCode cell-code" id="cb23"><pre class="sourceCode r code-with-copy"><code class="sourceCode r"><span id="cb23-1"><a href="#cb23-1" aria-hidden="true" tabindex="-1"></a><span class="fu">plot</span>(combine3[[<span class="dv">1</span>]], <span class="st">"NY"</span>, <span class="st">"top"</span>, <span class="dv">10</span>)</span></code><button title="Copy to Clipboard" class="code-copy-button"><i class="bi"></i></button></pre></div>
+<div class="sourceCode cell-code" id="cb26"><pre class="sourceCode r code-with-copy"><code class="sourceCode r"><span id="cb26-1"><a href="#cb26-1" aria-hidden="true" tabindex="-1"></a><span class="fu">plot</span>(combine3[[<span class="dv">1</span>]], <span class="st">"NY"</span>, <span class="st">"top"</span>, <span class="dv">10</span>)</span></code><button title="Copy to Clipboard" class="code-copy-button"><i class="bi"></i></button></pre></div>
 <div class="cell-output-display">
 <div>
 <figure class="figure">
